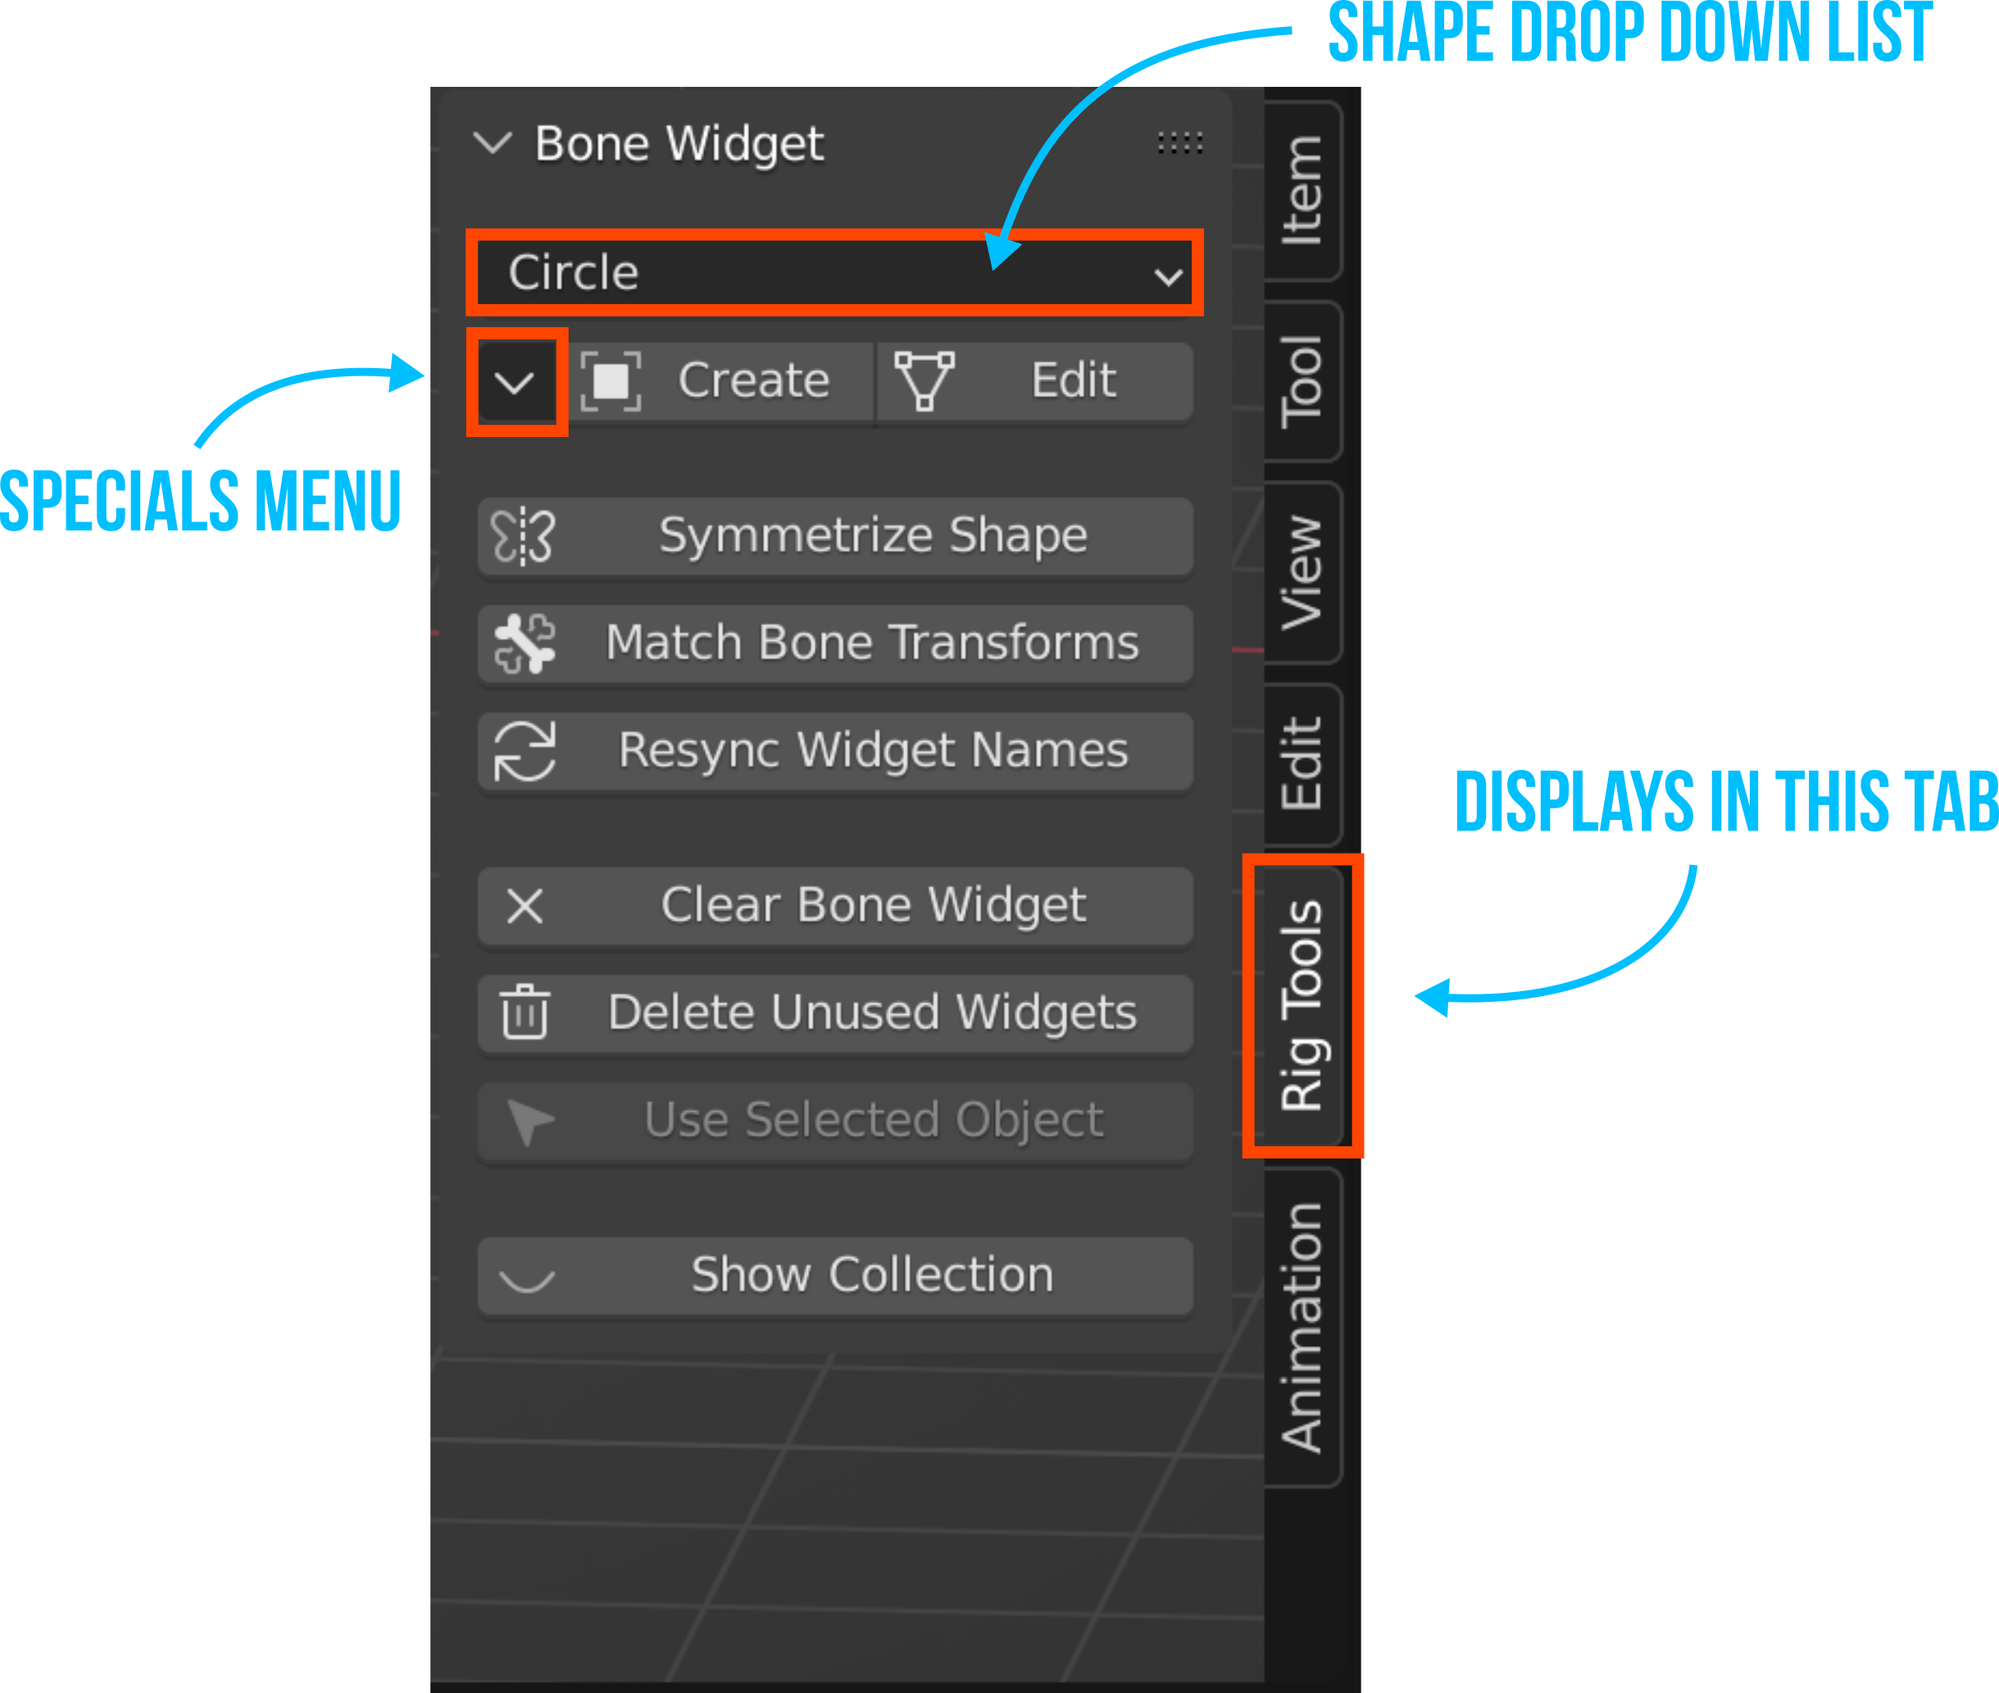
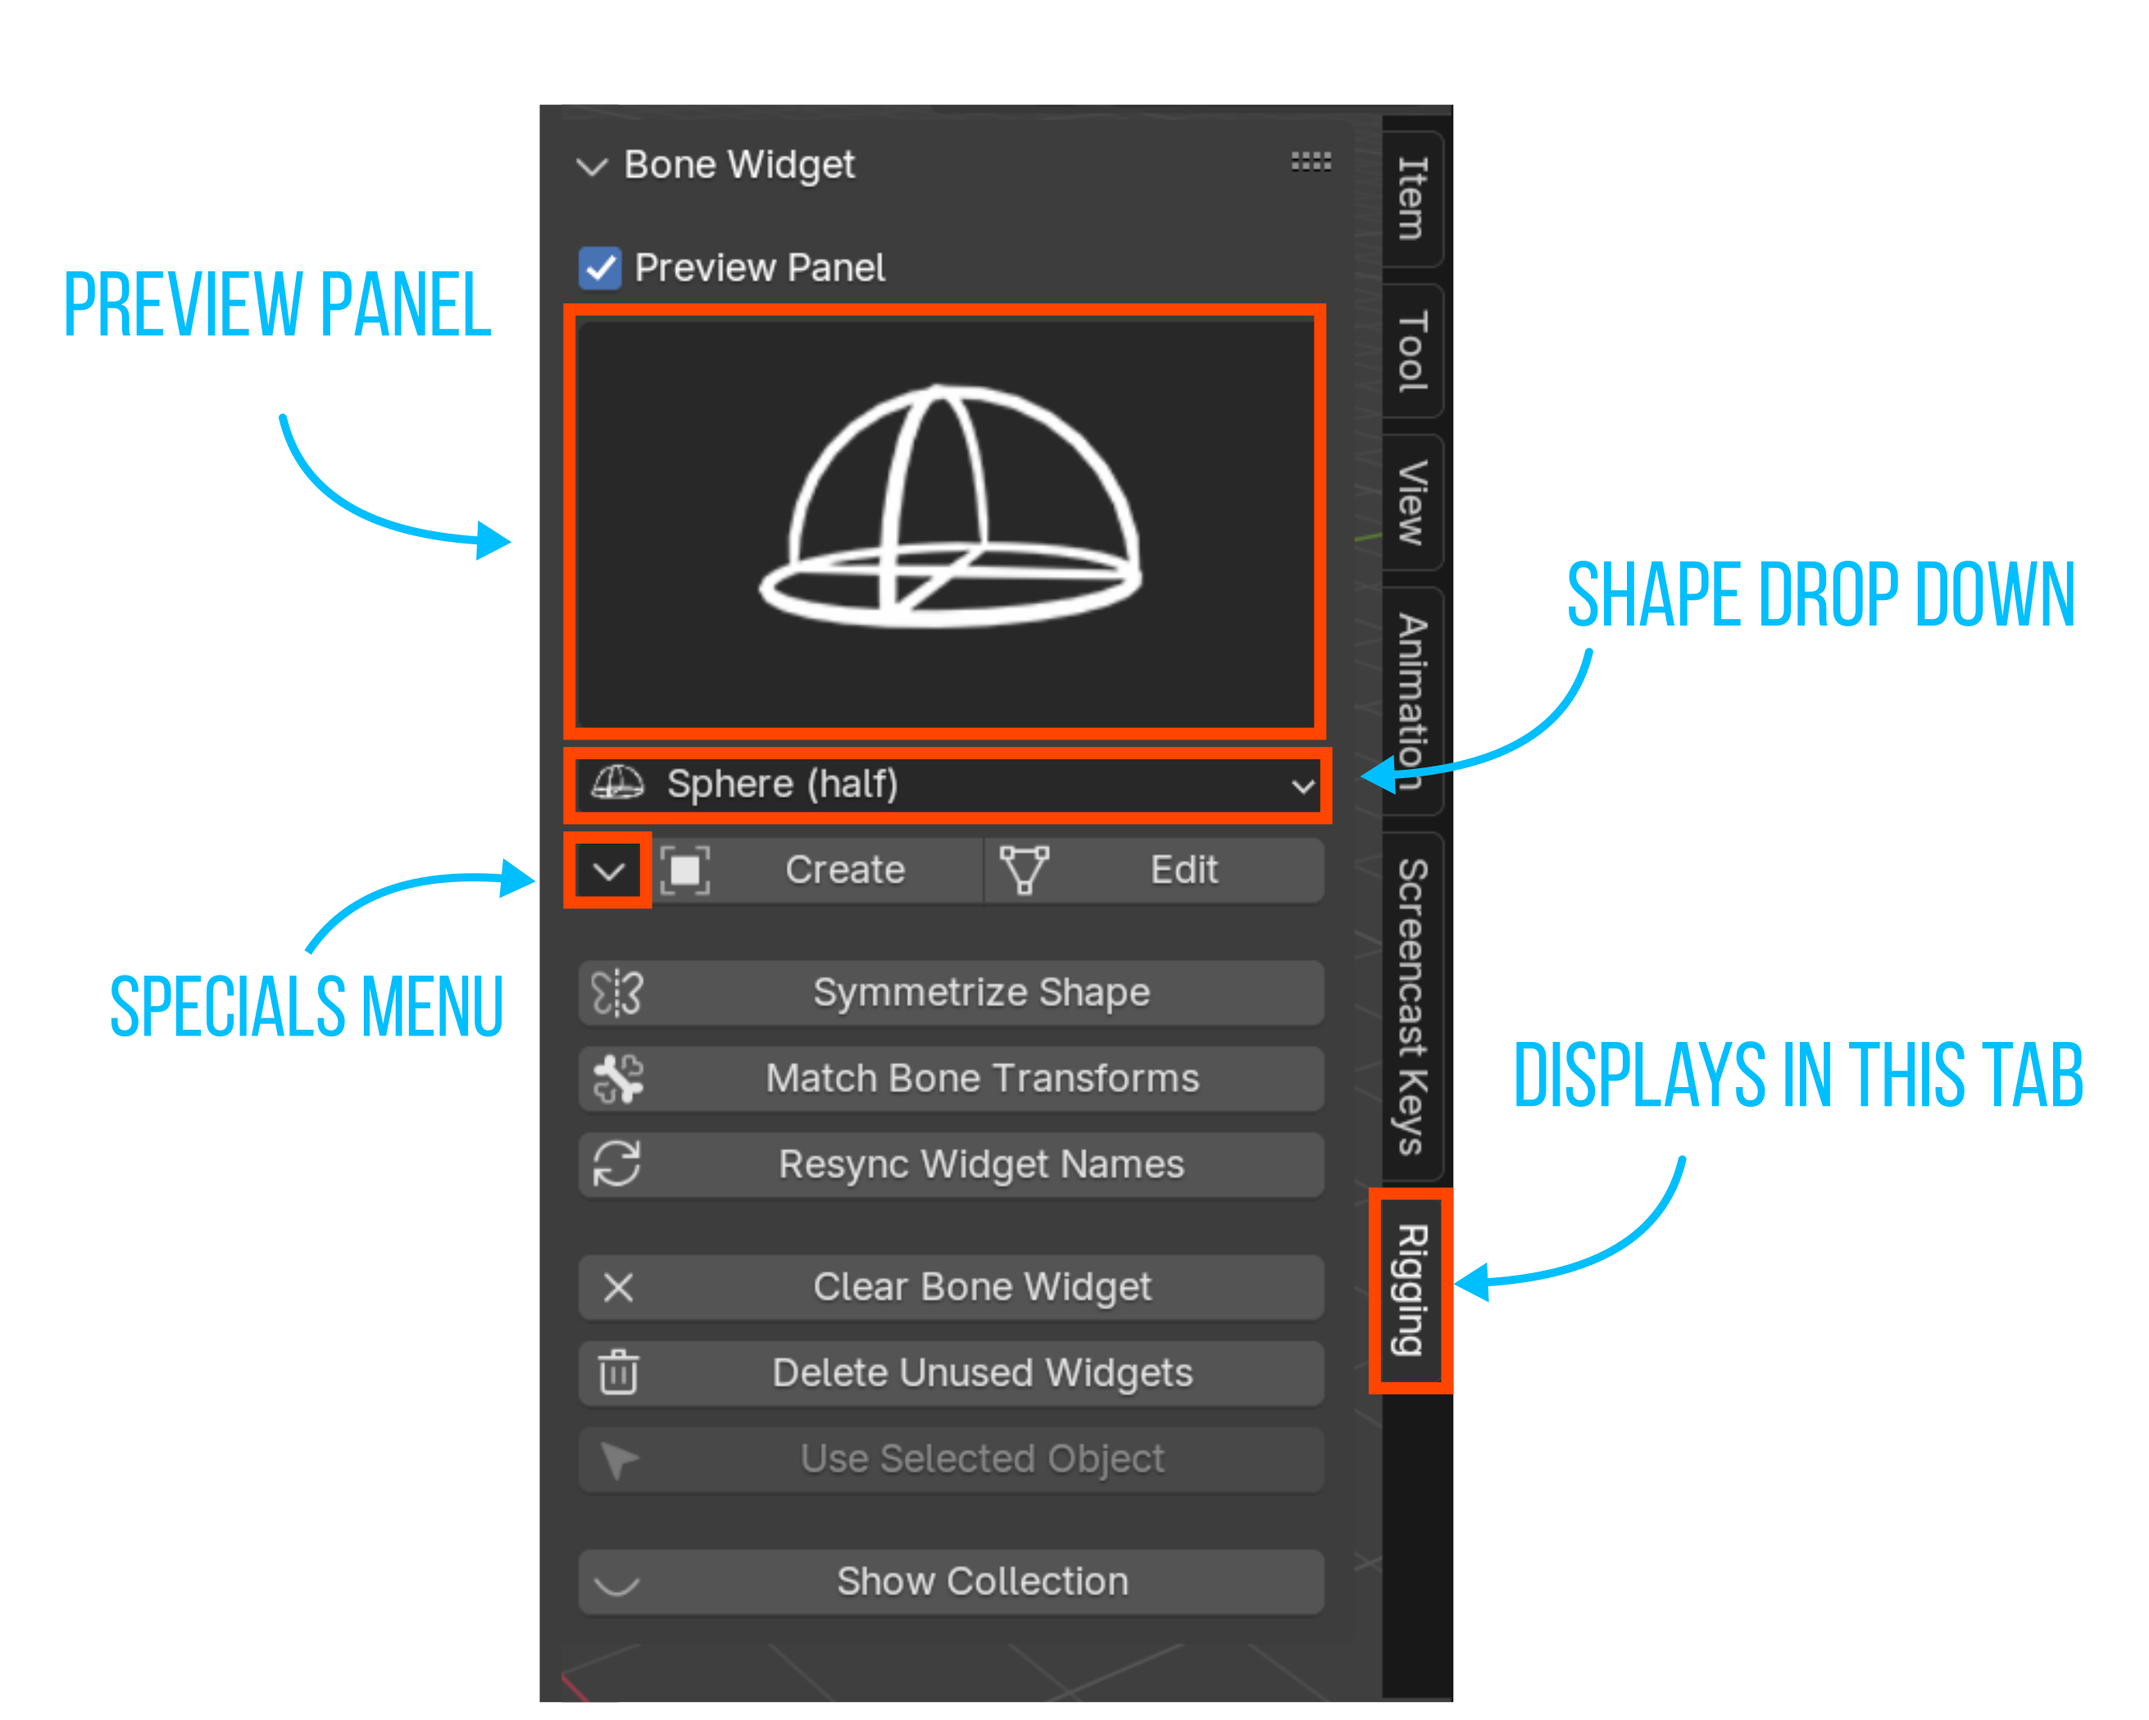
tweaked the images

Changed region(s): [[0.0, 0.0, 1.0, 1.0]]

diff --git a/README.md b/README.md
@@ -17,27 +17,34 @@ It ships with many shapes pre-made but you can also add your own to the library 
 
 ## UI Panel
 
+<img src="images/bone_widget_UI.png" alt="drawing" width="700"/>
 
+### Preview Panel Checkbox:
+This will show/hide the large widget preview panel. It's also possible to set your preferred option for this in the preferences. (The default is enabled)
 
-### Shape:
+### Preview Panel:
+This is the large preview panel that displays the currently selected widget.  Click on this panel to open the selection menu.
+
+### Shape Drop Down:
 This is the active shape from Bone Widget Library.
-Choose the shape you want to add from the list here.
+Choose the shape you want to add from the list here or from the large preview (if you have that enabled).
 
 ## BW Specials Menu:
 
-> <b>The image below is outdated but the concept is the same.</b>
 
-<img src="images/bone_widget_UI.png" alt="drawing" width="700"/>
+
 
 ### Add to Widget library
 
 To add a mesh object to the library, select a mesh object and click this button.
-Make sure you give that mesh object an appropriate name before adding.
+Give the mesh object an appropriate name and then confirm.  Your widget will be added to the library.
+(User widgets are stored in a separate json file to the shapes that come with the addon.)
 
 ### Remove from Widget Library
 
 This will remove the active shape from the library.
 Select the shape you want to remove from the list.  And click this. Boom, it is gone (forever!).
+This will work on any widget in the list.
 
 
 ## Creating a Widget:
@@ -58,8 +65,15 @@ With this disabled, the Global Size will be in Blender units.
 #### Slide:
 This will slide the position of the widget along the Y axis (or length) of the bone.  0.0 is at the head of the bone and 1.0 is the tail.  (negative values are possible too)
 
+
+#### Slide X/Y/Z (Advanced Option Only)
+When advanced mode is enabled, the slide property is split into 3 axies rather than just the defalt y axis.
+
 #### Rotation X/Y/Z
 You can rotate the widget by these values at the time of creation.  This can save you from having to jump into edit mode to rotate a widget to better align with your situation.
+
+#### Advanced Options:
+This checkbox will switch the slide value into 3 axes rather than just the default Y axis.  This will enable the user to position the widget in some situations without having to jump into edit mode.
 
 
 ### Edit/To Bone:
